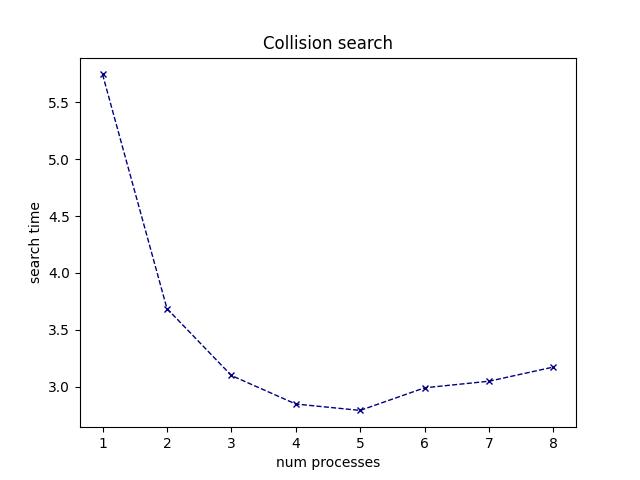
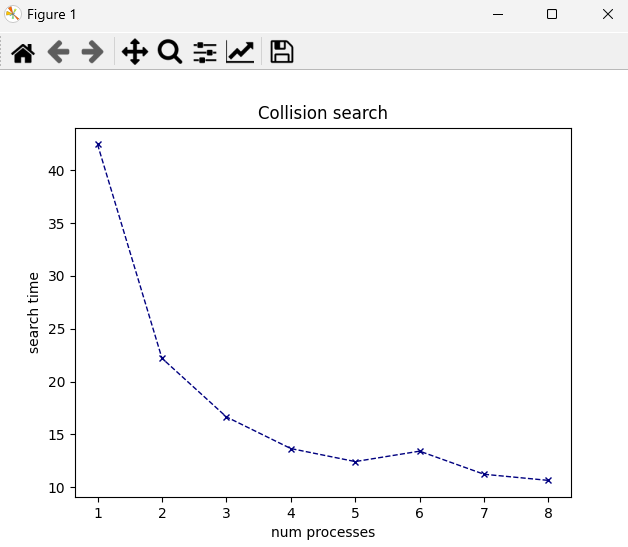
added list

Changed region(s): [[0.0, 0.0, 1.0, 1.0], [0.242, 0.5625, 0.3025, 0.6875]]

diff --git a/lab_4/main.py b/lab_4/main.py
@@ -58,12 +58,12 @@ class MainWindow(QWidget):
             index (int): index of the selected option
         """
         option = self.options.currentText()
-        if index == 0:
-            self.button_hash.setPlaceholderText("Enter hash")
-            self.button_last_numbers.setPlaceholderText("Enter the last numbers of the card")
-            self.button_path.setPlaceholderText("Enter the path where you want to save the number")
-            self.button_iin.setPlaceholderText("Enter iin")
         match index:
+            case 0:
+                self.button_hash.setPlaceholderText("Enter hash")
+                self.button_last_numbers.setPlaceholderText("Enter the last numbers of the card")
+                self.button_path.setPlaceholderText("Enter the path where you want to save the number")
+                self.button_iin.setPlaceholderText("Enter iin")
             case 1:
                 self.button_last_numbers.setPlaceholderText("Enter the card number to check the Luna algorithm")
             case 2:
@@ -89,15 +89,16 @@ class MainWindow(QWidget):
         Perform a search for a card number based on user input
         """
         try:
+            iin_values = self.button_iin.text().split(",")
             if number_search(
                 self.button_hash.text(),
                 int(self.button_last_numbers.text()),
                 self.button_path.text(),
-                self.button_iin.text(),):
+                iin_values): 
                 QMessageBox.information(self, "Card number found", "Card number found")
                 logging.info("card number found")
-            QMessageBox.information(
-                self, "Card number not found", "Card number not found")
+            else:
+                QMessageBox.information(self, "Card number not found", "Card number not found")
         except Exception as e:
             logging.error(f"Error in number_search {e}")
 
@@ -110,8 +111,7 @@ class MainWindow(QWidget):
                 QMessageBox.information(
                     self, "Luna algorithm not passed", "Luna algorithm not passed")
             else:
-                QMessageBox.information(
-                    self, "Luna algorithm passed", "Luna algorithm passed")
+                QMessageBox.information(self, "Luna algorithm passed", "Luna algorithm passed")
             logging.info("Luna algorithm work")
         except Exception as e:
             logging.error(f"Error luna algorithm {e}")
@@ -121,16 +121,15 @@ class MainWindow(QWidget):
         Perform a hash collision search
         """
         try:
+            iin_values = self.button_iin.text().split(",")
             if collision_search(
                 self.button_hash.text(),
                 int(self.button_last_numbers.text()),
-                self.button_iin.text(),):
-                QMessageBox.information(
-                    self, "Statistics collected", "Statistics collected")
+                iin_values):
+                QMessageBox.information(self, "Statistics collected", "Statistics collected")
                 logging.info("Statistics collected")
             else:
-                QMessageBox.information(
-                    self, "Statistics not collected", "Statistics not collected")
+                QMessageBox.information(self, "Statistics not collected", "Statistics not collected")
         except Exception as e:
             logging.error(f"Error during collision search {e}")
 

diff --git a/lab_4/funсtions.py b/lab_4/funсtions.py
@@ -33,7 +33,7 @@ def checking_numbers(hash: str, last_numbers: str, middle_number: int, iin: str)
         logging.error(f"Error when comparing hashes {e}")
 
 
-def number_search(hash: str, last_numbers: str, save_path: str, iins: str) -> None:
+def number_search(hash: str, last_numbers: str, save_path: str, iins: list) -> None:
     """
     The function loops through the numbers and compares them with the given hash
 
@@ -41,16 +41,17 @@ def number_search(hash: str, last_numbers: str, save_path: str, iins: str) -> No
         hash (str): hash for comparison
         last_numbers (str): last 4 digits of card number
         save_path (str): path where you need to save the card number
-        iin (str): the individual identification number
+        iins (list): list of individual identification numbers
     """
     try:
         cores = mp.cpu_count()
         with mp.Pool(processes=cores) as p:
-            for result in p.starmap(
-                checking_numbers, [(hash, last_numbers, i, iins) for i in range(999999)]):
-                if result:
-                    save_number(result, save_path)
-                    return result
+            for iin in iins:
+                results = p.starmap(checking_numbers, [(hash, last_numbers, i, iin) for i in range(999999)])
+                for result in results:
+                    if result:
+                        save_number(result, save_path)
+                        return result
         logging.info("Number not found")
     except Exception as e:
         logging.error(f"Error when searching number {e}")
@@ -87,14 +88,14 @@ def luna_algorithm(card_number: str) -> bool:
         logging.info(f"Error in luna algorithm {e}")
 
 
-def collision_search(hash: str, last_numbers: str, iin: str) -> None:
+def collision_search(hash: str, last_numbers: str, iins: list) -> None:
     """
     The function collects the hash determination time when dividing the number of processes
 
     Args:
         hash (str): hash for comparison
         last_numbers (str): last 4 digits of card number
-        iin (str): the individual identification number
+        iin (list): lsit of individual identification number
     """
     try:
         results = []
@@ -104,7 +105,7 @@ def collision_search(hash: str, last_numbers: str, iin: str) -> None:
             with mp.Pool(processes=num_core) as p:
                 p.starmap(
                     checking_numbers,
-                    [(hash, last_numbers, i, [iin]) for i in range(0, 999999)],)
+                    [(hash, last_numbers, i, iin) for iin in iins for i in range(0, 999999)],)
                 total_time = time.time() - start_time
                 results.append(total_time)
         logging.info("Statistics collected")
